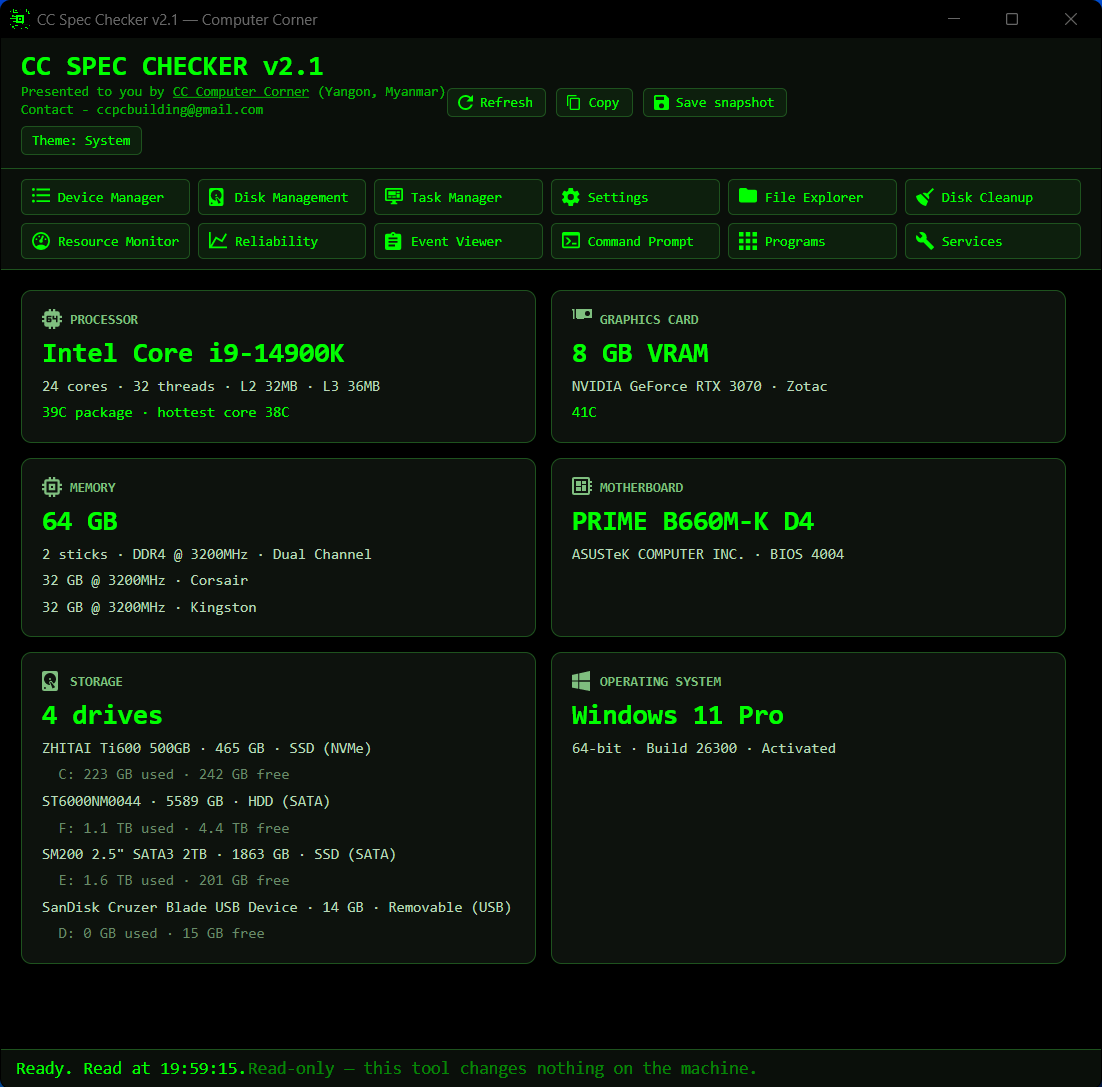
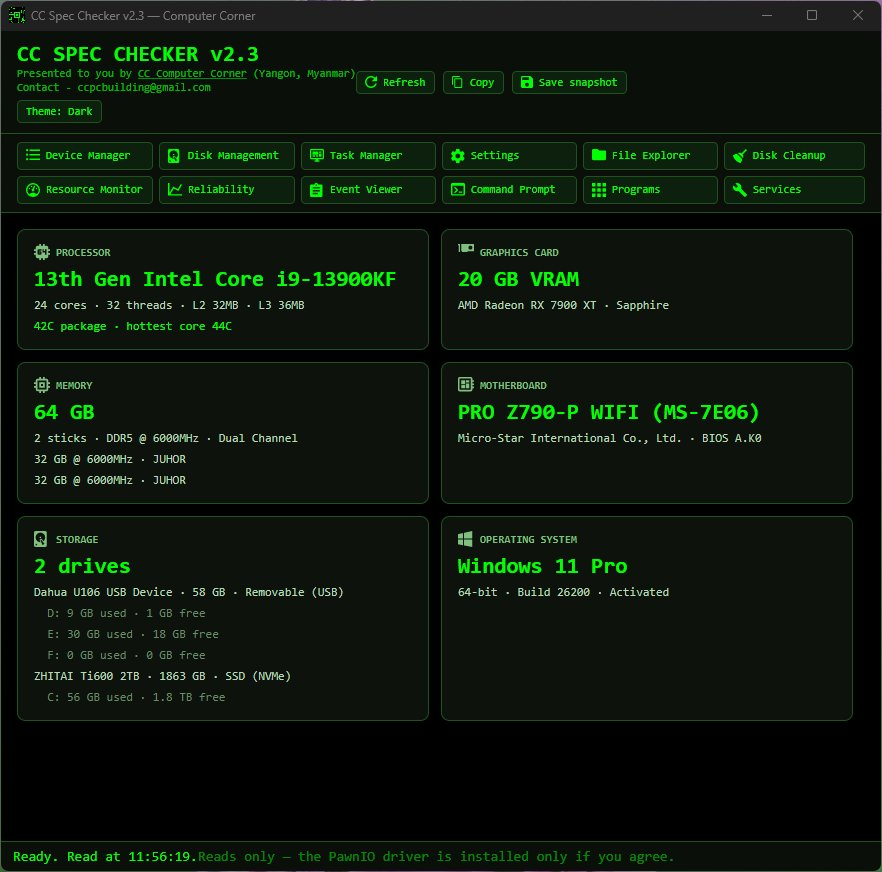
Update the screenshot to 2.3

diff --git a/README.md b/README.md
@@ -24,7 +24,7 @@ code stays MIT.
 
 ## Screenshot
 
-![CC Spec Checker v2.1](screenshot.png)
+![CC Spec Checker v2.3](screenshot.png)
 
 See [CHANGELOG.md](CHANGELOG.md) for what changed in each version (build 1 is 0.1, build 2 is 0.2, and so on; build 18 ships as 1.8).
 
